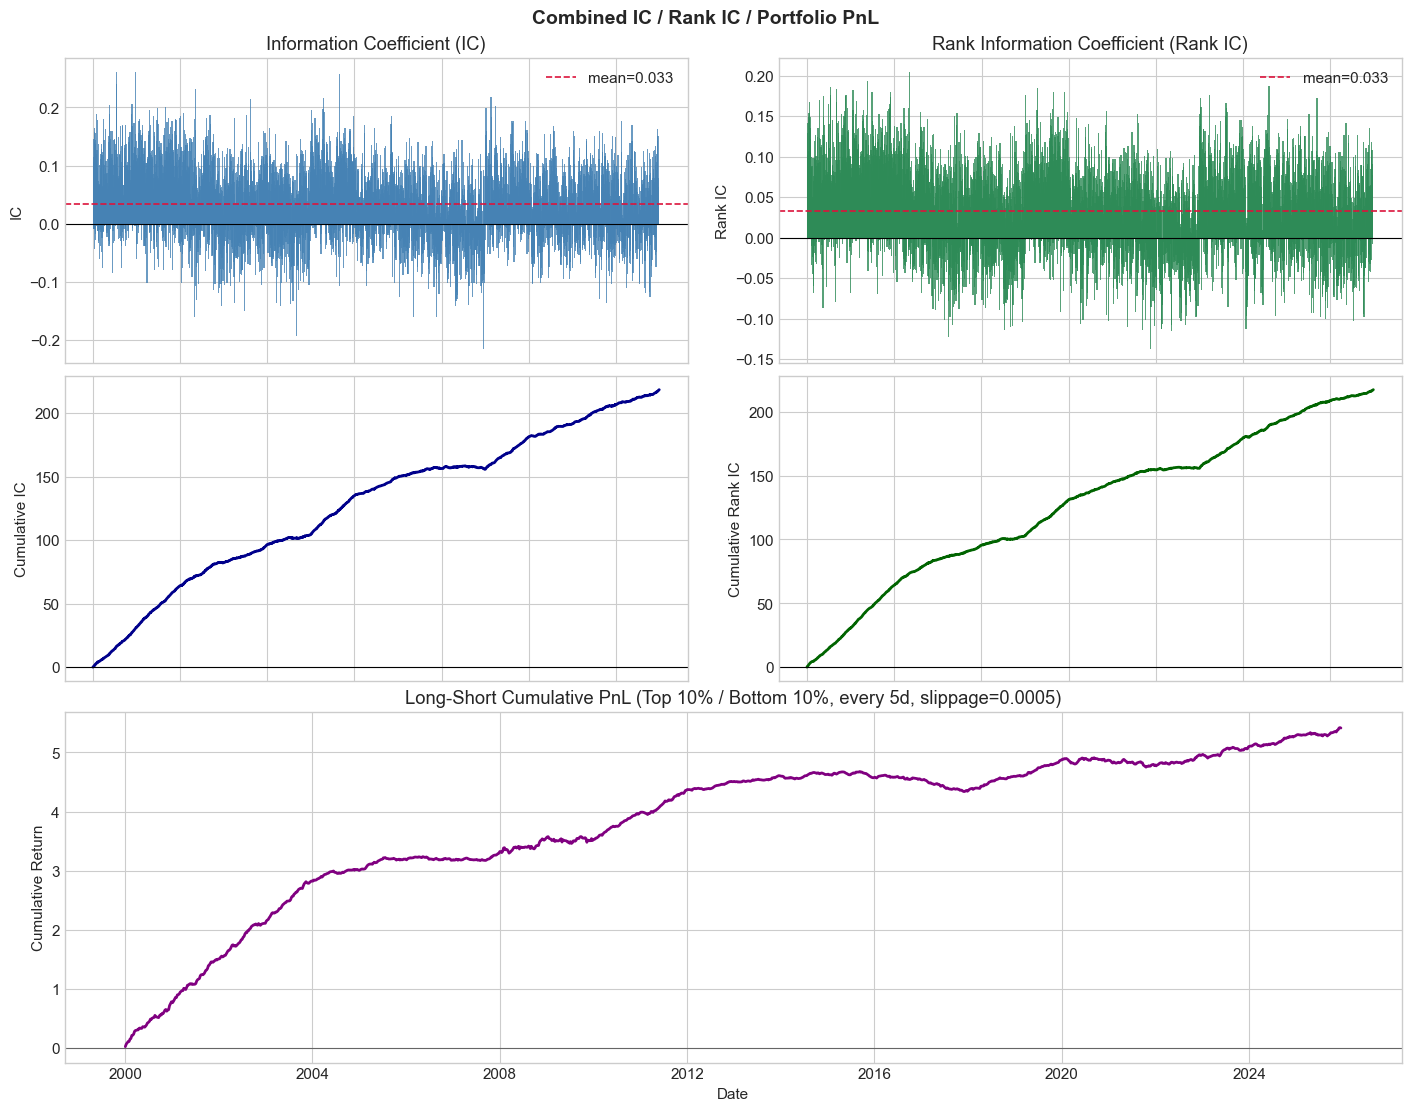
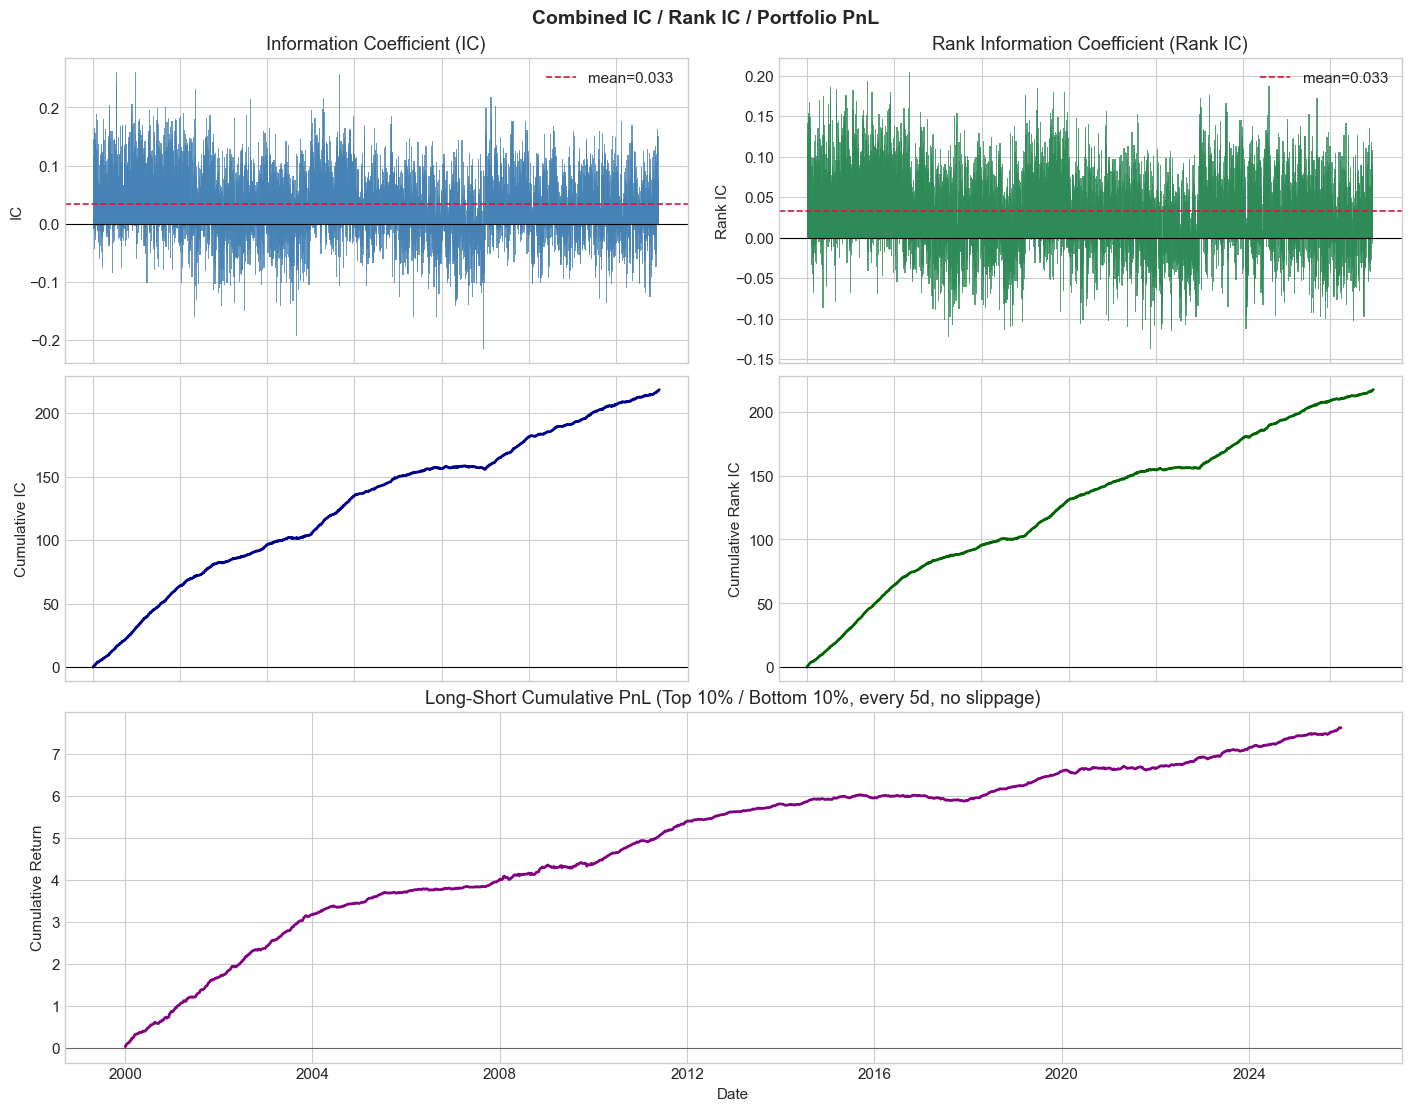
update,stat

Changed region(s): [[0.0936, 0.6733, 0.8731, 0.9487], [0.2807, 0.6121, 0.7484, 0.6427], [0.0, 0.7651, 0.0312, 0.7957]]

diff --git a/readme.md b/readme.md
@@ -52,26 +52,26 @@ Period PnL, return distribution, and cumulative PnL for the long–short book.
 
 | Metric | Value |
 |--------|------:|
-| **Mean IC** | 0.0260 |
-| **ICIR** | 0.4195 |
-| **Mean Rank IC** | 0.0244 |
-| **Rank ICIR** | 0.4980 |
+| **Mean IC** | 0.0334 |
+| **ICIR** | 0.586 |
+| **Mean Rank IC** | 0.0332 |
+| **Rank ICIR** | 0.673 |
 
 **Per-fold OOS IC** (from `outputs/walkforward/metrics_summary.csv`):
 
 | Refit year | OOS start | IC | ICIR | Rank IC | Rank ICIR |
 |:----------:|:---------:|---:|-----:|--------:|----------:|
-| 2000 | 2000 | 0.0497 | 0.418 | 0.0556 | 0.484 |
-| 2010 | 2010 | 0.0126 | 0.095 | 0.0189 | 0.149 |
-| 2020 | 2020 | 0.0164 | 0.106 | 0.0197 | 0.125 |
+| 2000 | 2000 | 0.0602 | 0.447 | 0.0696 | 0.575 |
+| 2010 | 2010 | 0.0211 | 0.150 | 0.0256 | 0.175 |
+| 2020 | 2020 | 0.0206 | 0.120 | 0.0213 | 0.118 |
 
 #### Portfolio performance (long–short, top/bottom 10%)
 
 | Strategy | Annual return | Sharpe |
 |----------|--------------:|-------:|
-| **Long–Short** | 26.71% | 2.69 |
-| Long only | 26.87% | 3.85 |
-| Short only | −0.16% | −0.03 |
+| **Long–Short** | 29.36% | 3.15 |
+| Long only | 27.50% | 4.10 |
+| Short only | 1.86% | 0.30 |
 
 #### CAPM vs SPX (5-day holding periods)
 
@@ -81,9 +81,9 @@ Regression: `beta = corr(port, SPX) × std(port) / std(SPX)`,
 
 | Strategy | Beta | Alpha (annual) |
 |----------|-----:|---------------:|
-| **Long–Short** | −0.027 | 26.92% |
-| Long only | −0.009 | 26.94% |
-| Short only | −0.018 | −0.03% |
+| **Long–Short** | −0.005 | 29.40% |
+| Long only | −0.003 | 27.52% |
+| Short only | −0.002 | 1.88% |
 
 > **Note:** Backtest returns are **gross** (no transaction costs unless `SLIPPAGE` is set in the notebook). Results are in-sample to the walk-forward OOS design and depend on the CRSP panel and factor pipeline.
 